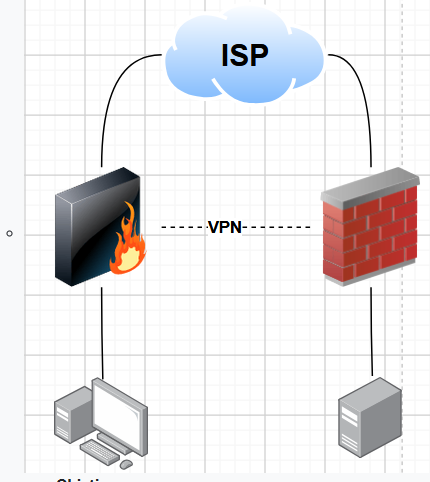
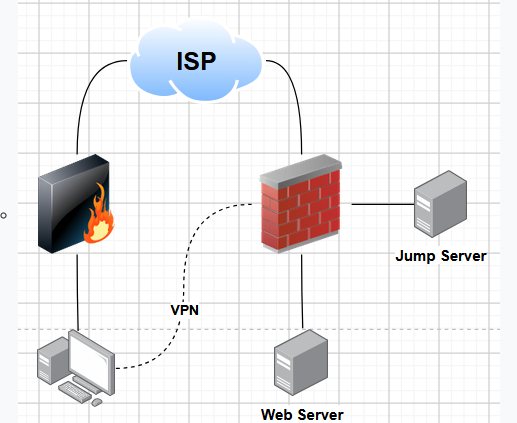
Document active DMZ and Jump Server topology

diff --git a/README.md b/README.md
@@ -1,46 +1,32 @@
-**Videos de la practica:** [Ver videos en OneDrive](https://1drv.ms/f/c/6b63aaec5c0ec7fc/IgDIK3ZKiVDHSqMyiQD1d0EqAV-zz2bVrkTrJduTAsyBIc8?e=ad0NjO)
+# DMZ y Jump Server (INFRA2)
 
----
+> **Video demostrativo:** pendiente de grabación después de validar los servicios. El video final se enlazará aquí.
 
-# Práctica 2 — VPN site-to-site (Infraestructura 2)
+## Propósito
 
-## Objetivo
+Construir un acceso remoto seguro mediante VPN IPsec desde la red de usuarios hacia un Jump Server, con acceso restringido al Web Server de Caja por HTTPS, RDP y SSH. El FortiGate se debe configurar y demostrar por GUI. Los usuarios de VLAN 10 reciben su dirección por DHCP; el usuario sin privilegios solo debe ver la aplicación web publicada, mientras que el usuario con privilegios dispone de Web, PuTTY y RDP.
 
-Comunicar el equipo de usuario con el servidor web a través de un túnel VPN site-to-site y comprobar que el tráfico entre ambas redes deja de pasar cuando el túnel está inactivo.
+## Topología activa
 
-## Topología propuesta
+![Diagrama de referencia de la práctica](docs/imagenes/topologia-infra2.png)
 
-![Diagrama de referencia de Infraestructura 2](docs/imagenes/topologia-infra2.png)
+El mapa comprobado de interfaces, puertos, imágenes y estado inicial está en [inventario de puertos y enlaces](docs/puertos-topologia-activa.md).
 
-El diagrama representa los componentes solicitados: un FortiGate, un peer de red del otro lado, un ISP que proporciona conectividad entre sus direcciones públicas, una red de usuario y una red de servidor. El equipo peer puede ser Cisco u otro fabricante compatible con IPsec.
+## Requisitos
 
-## Requisitos de la práctica
+- VPN entre el sitio del cliente y el sitio de servidores; la VPN solo permite llegar al Jump Server.
+- LAN de usuario en VLAN 10, `/25`, con DHCP.
+- Web Server y Jump Server en LAN distintas, cada una `/29`.
+- Desde Jump Server hacia Web Server, permitir únicamente TCP 443 (HTTPS), 3389 (RDP) y 22 (SSH).
+- Publicar por RDP RemoteApp y RD Web Client: Web para el usuario sin privilegios; Web, PuTTY y RDP para el usuario con privilegios.
+- FortiGate configurado y demostrado desde la GUI.
 
-- Configurar las interfaces y redes de ambos peers.
-- Configurar NAT donde corresponda para la salida hacia el ISP; el tráfico protegido por el túnel debe conservar las direcciones privadas y no recibir NAT.
-- Establecer el túnel IPsec site-to-site entre los peers.
-- Publicar el servidor web por HTTPS en una subred `/28`.
-- Conectar los usuarios a una subred `/25`, con VLAN 10 y DHCP.
-- Verificar el acceso usuario-servidor con el túnel activo y repetir la prueba con el túnel desactivado.
-- Ejecutar traceroute desde el equipo de usuario hacia el servidor.
-- Realizar la configuración y la demostración del FortiGate mediante su GUI.
+## Estado actual
 
-## Direccionamiento
+La topología PNETLab activa se inspeccionó para asociar los puertos. Aún no se ha aplicado direccionamiento ni configuración de VPN/políticas. Los dos servidores activos usan una imagen Ubuntu/Apache; el Jump Server no tiene RDP y no hay una imagen Windows Server instalada en PNETLab. Por ello, RDS RemoteApp y RD Web Client aún no pueden configurarse con los nodos actuales.
 
-El plan de direccionamiento debe asignarse según la matrícula y las redes disponibles en el laboratorio. No se fija aquí ningún bloque ni dirección pública para evitar documentar valores que no hayan sido confirmados para esta infraestructura.
+El plan de direccionamiento propuesto y la limitación de imágenes se detallan en [puertos y enlaces](docs/puertos-topologia-activa.md). Los scripts de inspección usados están en `scripts/`.
 
-## Estado de la evidencia
+## Evidencias
 
-La imagen incluida es el diagrama de referencia de la práctica. Por sí sola no demuestra que el túnel, el acceso HTTPS, DHCP, NAT o traceroute estén funcionando. Añade capturas de la GUI y salidas de las pruebas cuando se complete y verifique esta infraestructura.
-
-## Evidencias recomendadas para completar el repositorio
-
-1. Interfaces y direccionamiento de los peers.
-2. Estado del túnel IPsec y contadores de tráfico.
-3. Políticas de firewall y NAT.
-4. Concesión DHCP del usuario en VLAN 10.
-5. Acceso HTTPS al servidor con el túnel activo.
-6. Fallo de la comunicación protegida con el túnel inactivo y recuperación al volver a activarlo.
-7. Traceroute hacia la dirección del servidor.
-
-No incluir claves precompartidas, contraseñas ni capturas que las muestren.
+Se añadirán capturas de la GUI de FortiGate, del estado del túnel, las políticas, DHCP, las aplicaciones publicadas y las pruebas de acceso al completar la configuración. No se incluirán credenciales ni claves precompartidas.

diff --git a/docs/puertos-topologia-activa.md b/docs/puertos-topologia-activa.md
@@ -1,0 +1,38 @@
+# Inventario de puertos y enlaces de INFRA2
+
+Inspección de solo lectura del archivo activo `/opt/unetlab/labs/DMZ y Jump Server INFRA2.unl` en PNETLab. La configuración de FortiGate debe realizarse y demostrarse desde su GUI.
+
+## Cableado confirmado
+
+| Equipo | Interfaz | Conectado a | Función prevista |
+|---|---|---|---|
+| RED DEVICE | `eth1` | ISP `eth1` | Enlace WAN del lado del cliente |
+| RED DEVICE | `eth2` | Red `PCiface_1` / PC `eth1` | LAN del usuario, VLAN 10 |
+| ISP | `eth2` | FortiGate `port1` | WAN del FortiGate |
+| FortiGate | `port2` | WEB-SERVER `eth1` | LAN dedicada del servidor web |
+| FortiGate | `port3` | JUMP-SERVER `eth1` | LAN dedicada del Jump Server |
+| PC | `eth1` | Red `PCiface_1` / RED DEVICE `eth2` | Cliente de la VPN |
+
+La topología activa no contiene un switch Cisco. `RED DEVICE` es un router Ubuntu 20.04. PNETLab tiene disponible `pnetlab/ubuntu-router-ipsec:infra3-ready`, que incluye strongSwan, iptables y dnsmasq; la imagen actual `ubuntu_sv` no incluye esos servicios.
+
+## Estado de las interfaces y servicios observado
+
+El archivo activo asigna las conexiones anteriores, pero sus campos de direccionamiento IPv4 de los nodos están vacíos. Las direcciones `10.177.0.x` vistas en Docker son de administración de PNETLab; no son las redes de usuario, WAN ni servidor del ejercicio.
+
+`WEB-SERVER` y `JUMP-SERVER` están ejecutando `pnetlab/apache2:latest` (Ubuntu 20.04). Ambos exponen HTTP/HTTPS y SSH; el Jump Server no escucha en TCP 3389. La lista de imágenes QEMU instaladas solo muestra FortiGate 7.0.9 e IOSv2; no se encontró una imagen de Windows Server para habilitar RDS RemoteApp o RD Web Client.
+
+## Plan de direccionamiento propuesto
+
+Los bloques WAN son rangos TEST-NET reservados para documentación y laboratorios aislados; no son direcciones públicas enrutables en Internet.
+
+| Segmento | Red | Dirección sugerida |
+|---|---|---|
+| LAN de usuario, VLAN 10 | `192.168.10.0/25` | RED DEVICE `.1`; DHCP para clientes |
+| RED DEVICE ↔ ISP | `203.0.113.0/30` | ISP `.1`, RED DEVICE `.2` |
+| ISP ↔ FortiGate port1 | `198.51.100.0/30` | ISP `.1`, FortiGate `.2` |
+| LAN del Web Server, port2 | `192.168.30.0/29` | FortiGate `.1`, Web `.2` |
+| LAN del Jump Server, port3 | `192.168.40.0/29` | FortiGate `.1`, Jump `.2` |
+
+La VPN debe incluir solamente VLAN 10 y la LAN del Jump Server. No debe incluir la LAN del Web Server. El firewall permitirá al usuario llegar al Jump Server; desde el Jump Server se limitará el tráfico al Web Server a HTTPS, RDP y SSH.
+
+> Este direccionamiento está propuesto y aún no se ha aplicado. Si el curso requiere bloques específicos, se debe sustituir antes de configurar.
